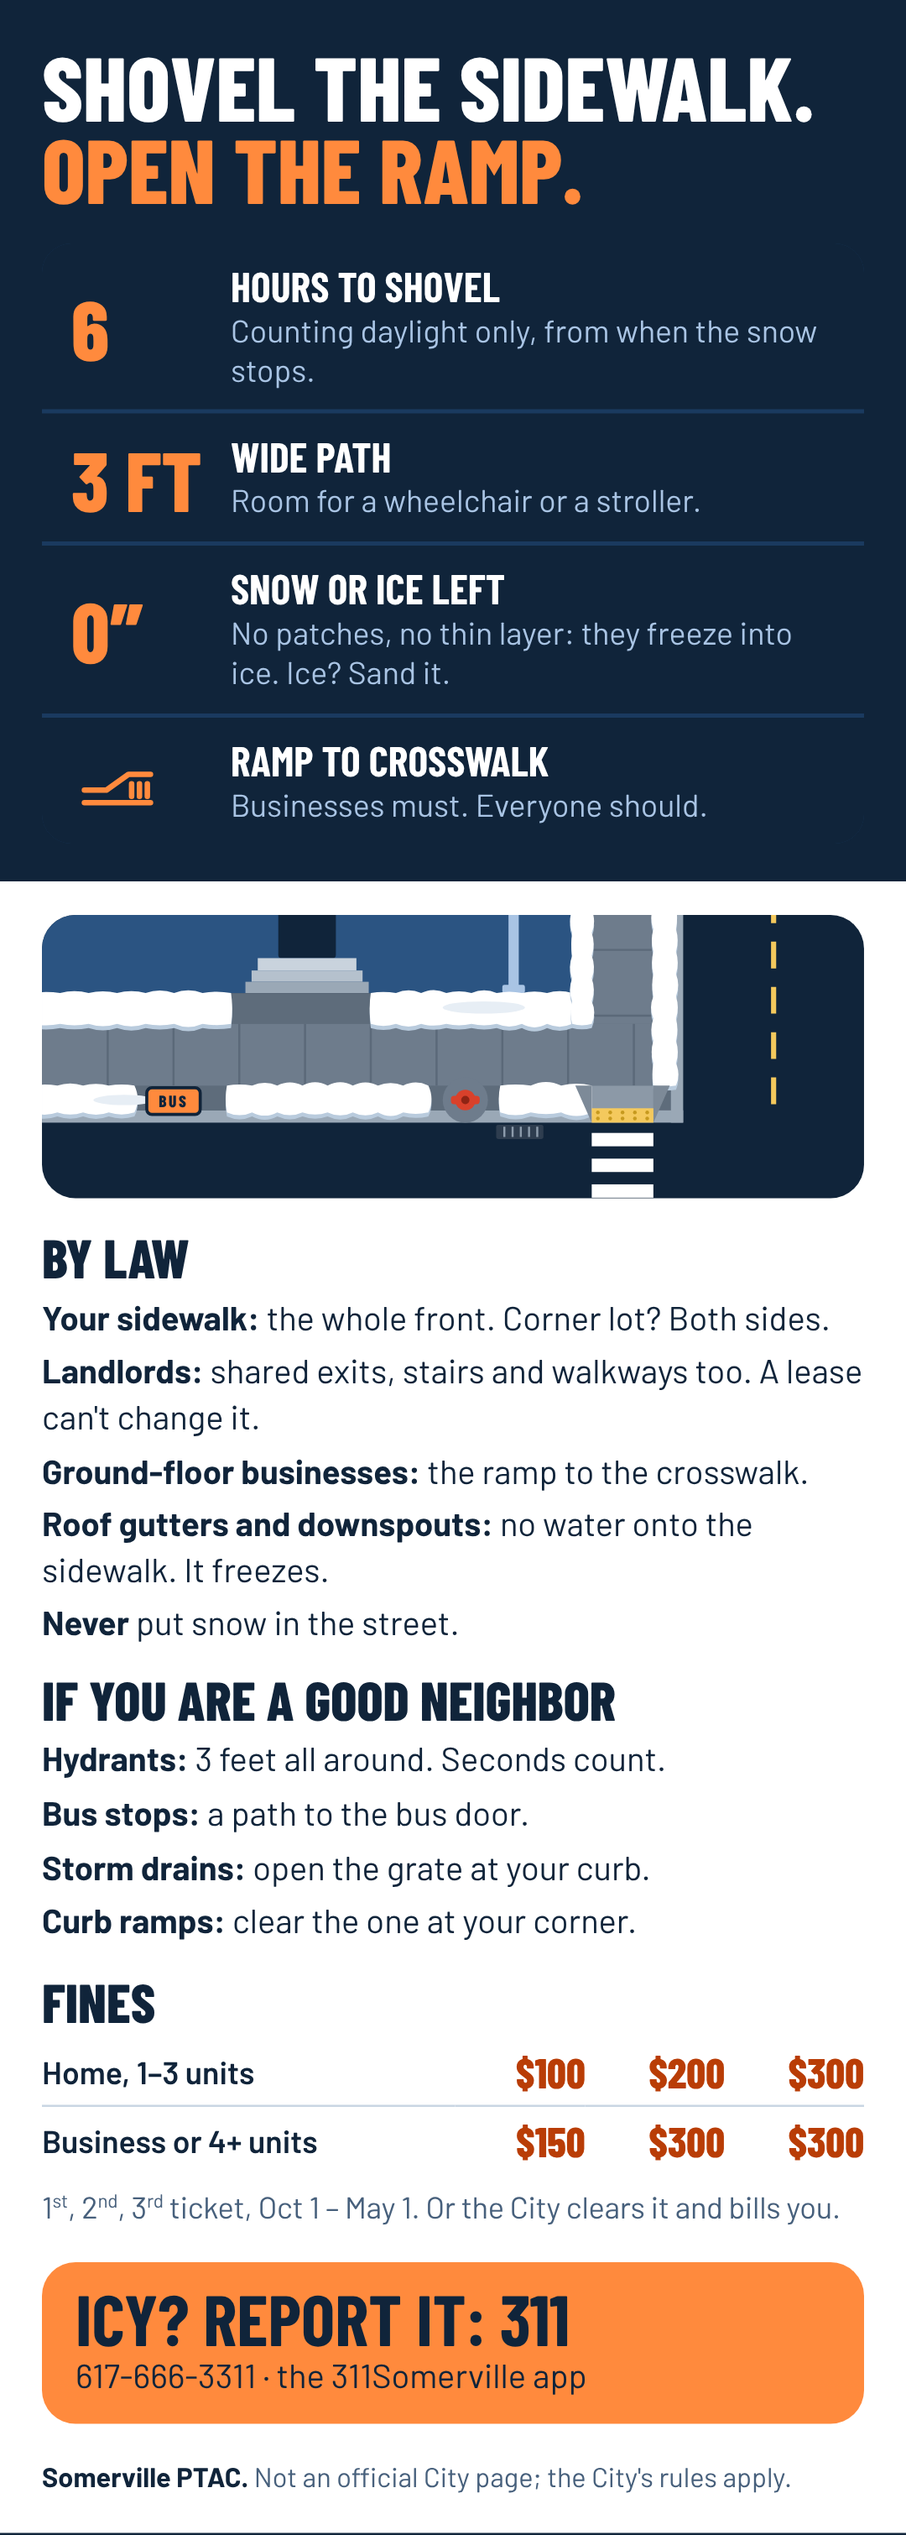
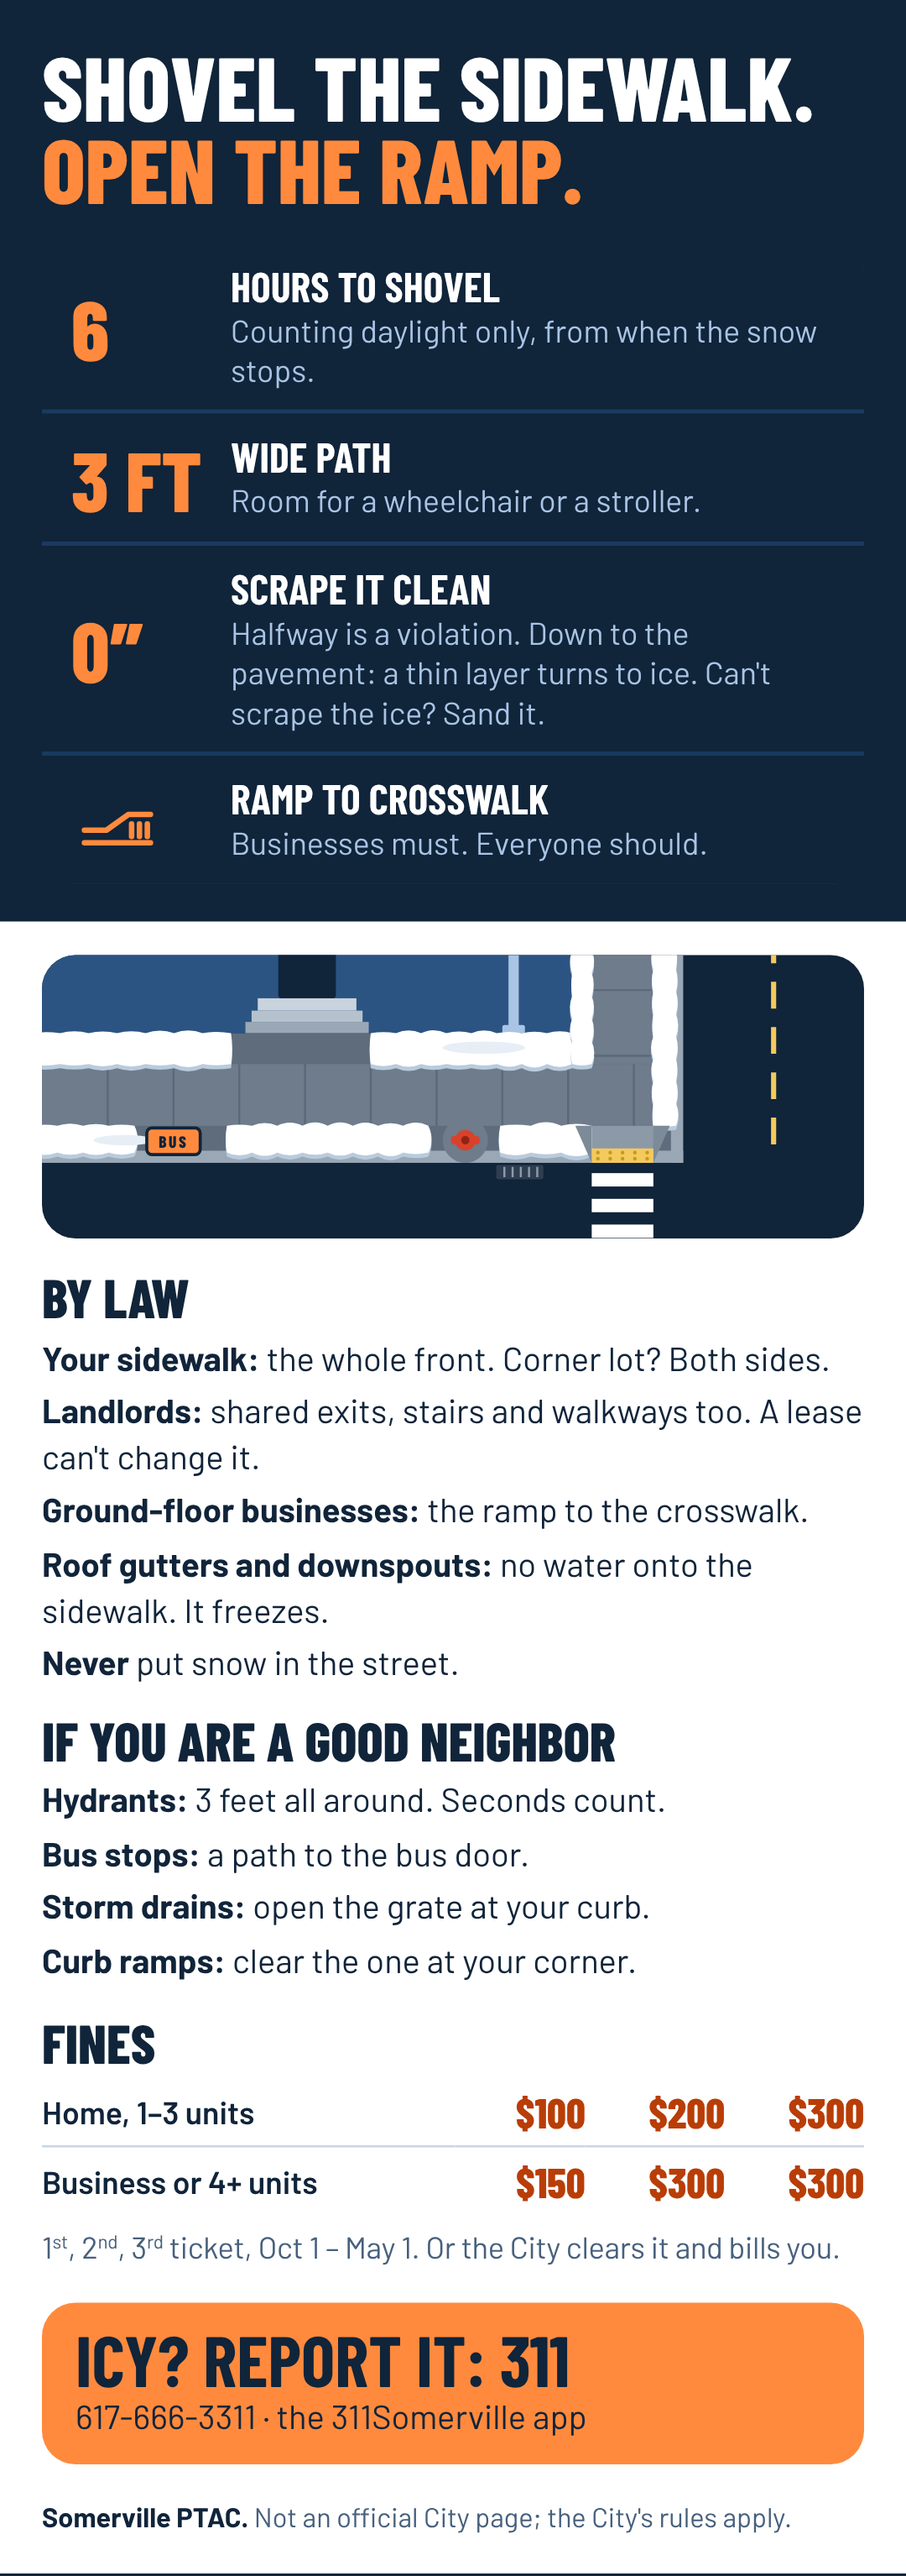
Flyers: Scrape it clean, halfway is a violation
Claude-Session: https://claude.ai/code/session_01NQ76C6nydNvs9N6wiqQBM6

diff --git a/docs/flyer-phone.html b/docs/flyer-phone.html
@@ -92,7 +92,7 @@ h2{font-size:26px;margin-bottom:6px}
     <div class="rules">
       <div class="rule"><b>6</b><span>Hours to shovel</span><small>Counting daylight only, from when the snow stops.</small></div>
       <div class="rule"><b>3 FT</b><span>Wide path</span><small>Room for a wheelchair or a stroller.</small></div>
-      <div class="rule"><b>0″</b><span>Snow or ice left</span><small>No patches, no thin layer: they freeze into ice. Ice? Sand it.</small></div>
+      <div class="rule"><b>0″</b><span>Scrape it clean</span><small>Halfway is a violation. Down to the pavement: a thin layer turns to ice. Can't scrape the ice? Sand it.</small></div>
       <div class="rule"><svg viewBox="0 0 48 48" aria-hidden="true"><path d="M3 30 H17 L31 20 H45"/><path d="M3 38 H45"/><path d="M33 26 V34 M38 26 V34 M43 26 V34"/></svg><span>Ramp to crosswalk</span><small>Businesses must. Everyone should.</small></div>
     </div>
   </div>

diff --git a/docs/flyer.html b/docs/flyer.html
@@ -65,7 +65,7 @@ h2{font-size:26px;font-weight:800;margin-bottom:8px}
     <div class="rules">
       <div class="rule"><b>6</b><span>Hours to shovel</span><small>Daylight only, from when the snow stops.</small></div>
       <div class="rule"><b>3 FT</b><span>Wide path</span><small>Room for a wheelchair or a stroller.</small></div>
-      <div class="rule"><b>0″</b><span>Snow or ice left</span><small>No patches, no thin layer: it turns to ice.</small></div>
+      <div class="rule"><b>0″</b><span>Scrape it clean</span><small>Halfway is a violation. Down to the pavement.</small></div>
       <div class="rule"><svg viewBox="0 0 48 48" aria-hidden="true"><path d="M3 30 H17 L31 20 H45"/><path d="M3 38 H45"/><path d="M33 26 V34 M38 26 V34 M43 26 V34"/></svg><span>Ramp to crosswalk</span><small>Businesses must. Everyone should.</small></div>
     </div>
   </div>
